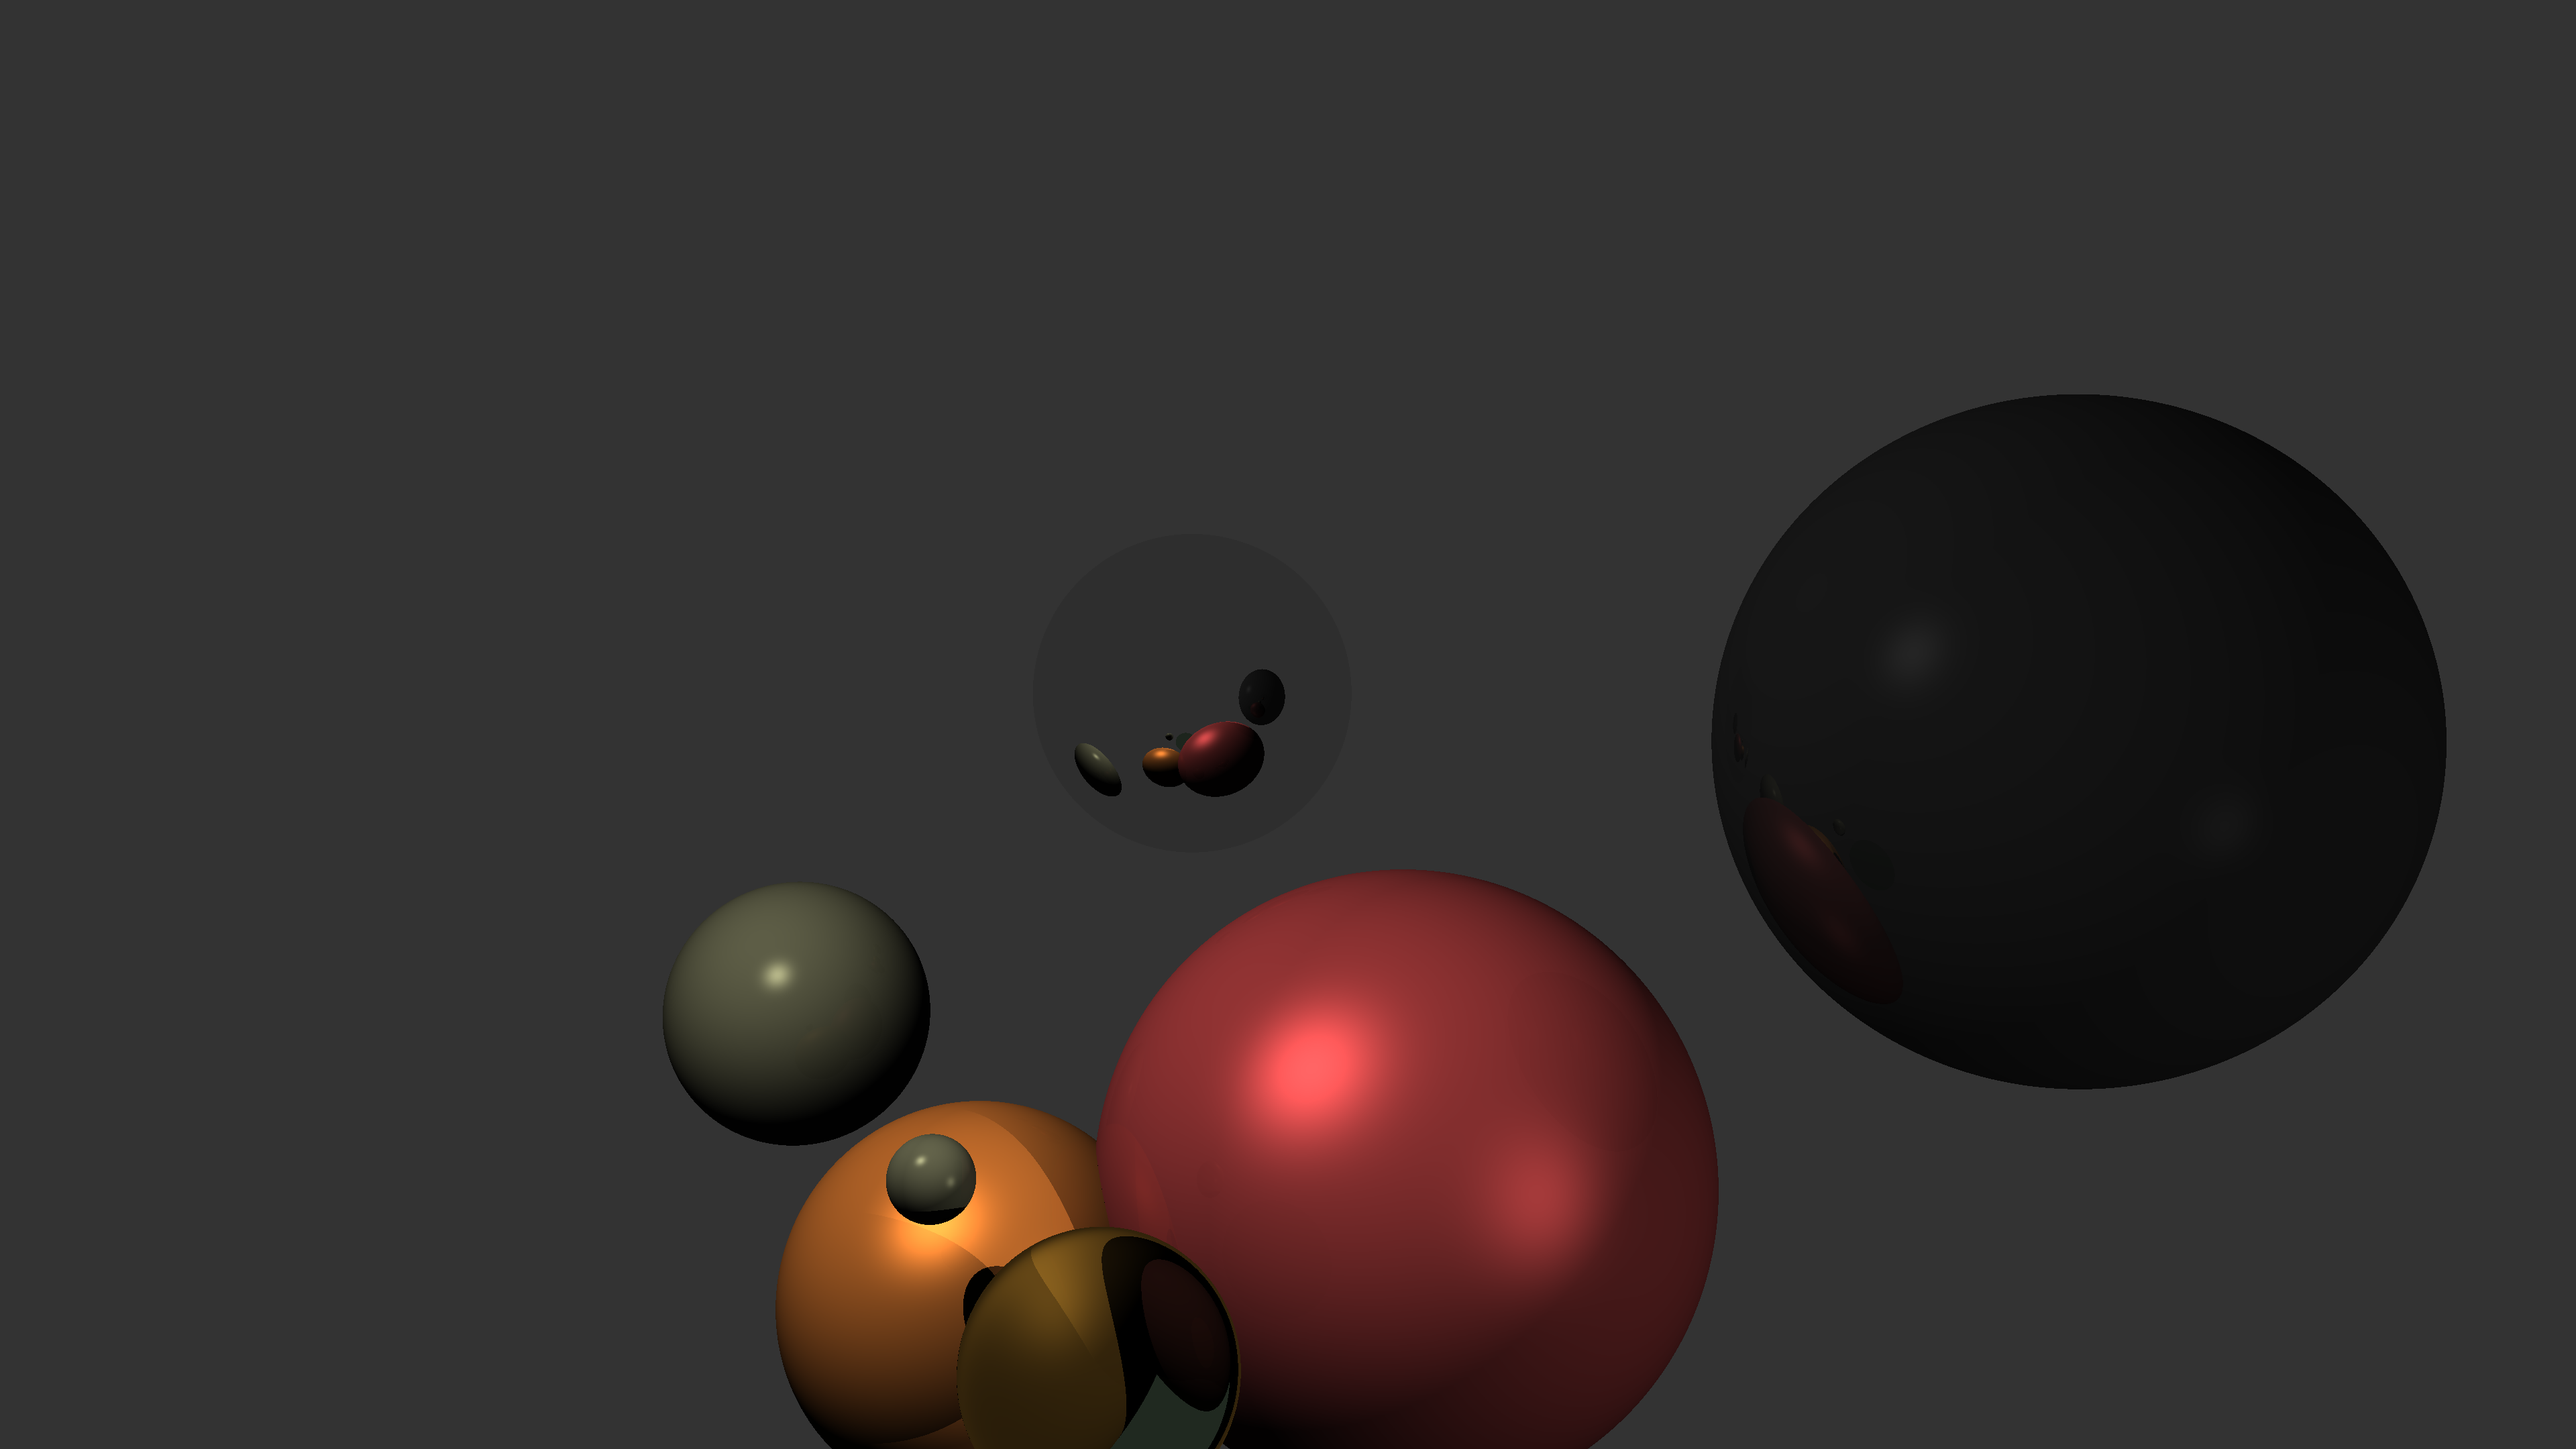
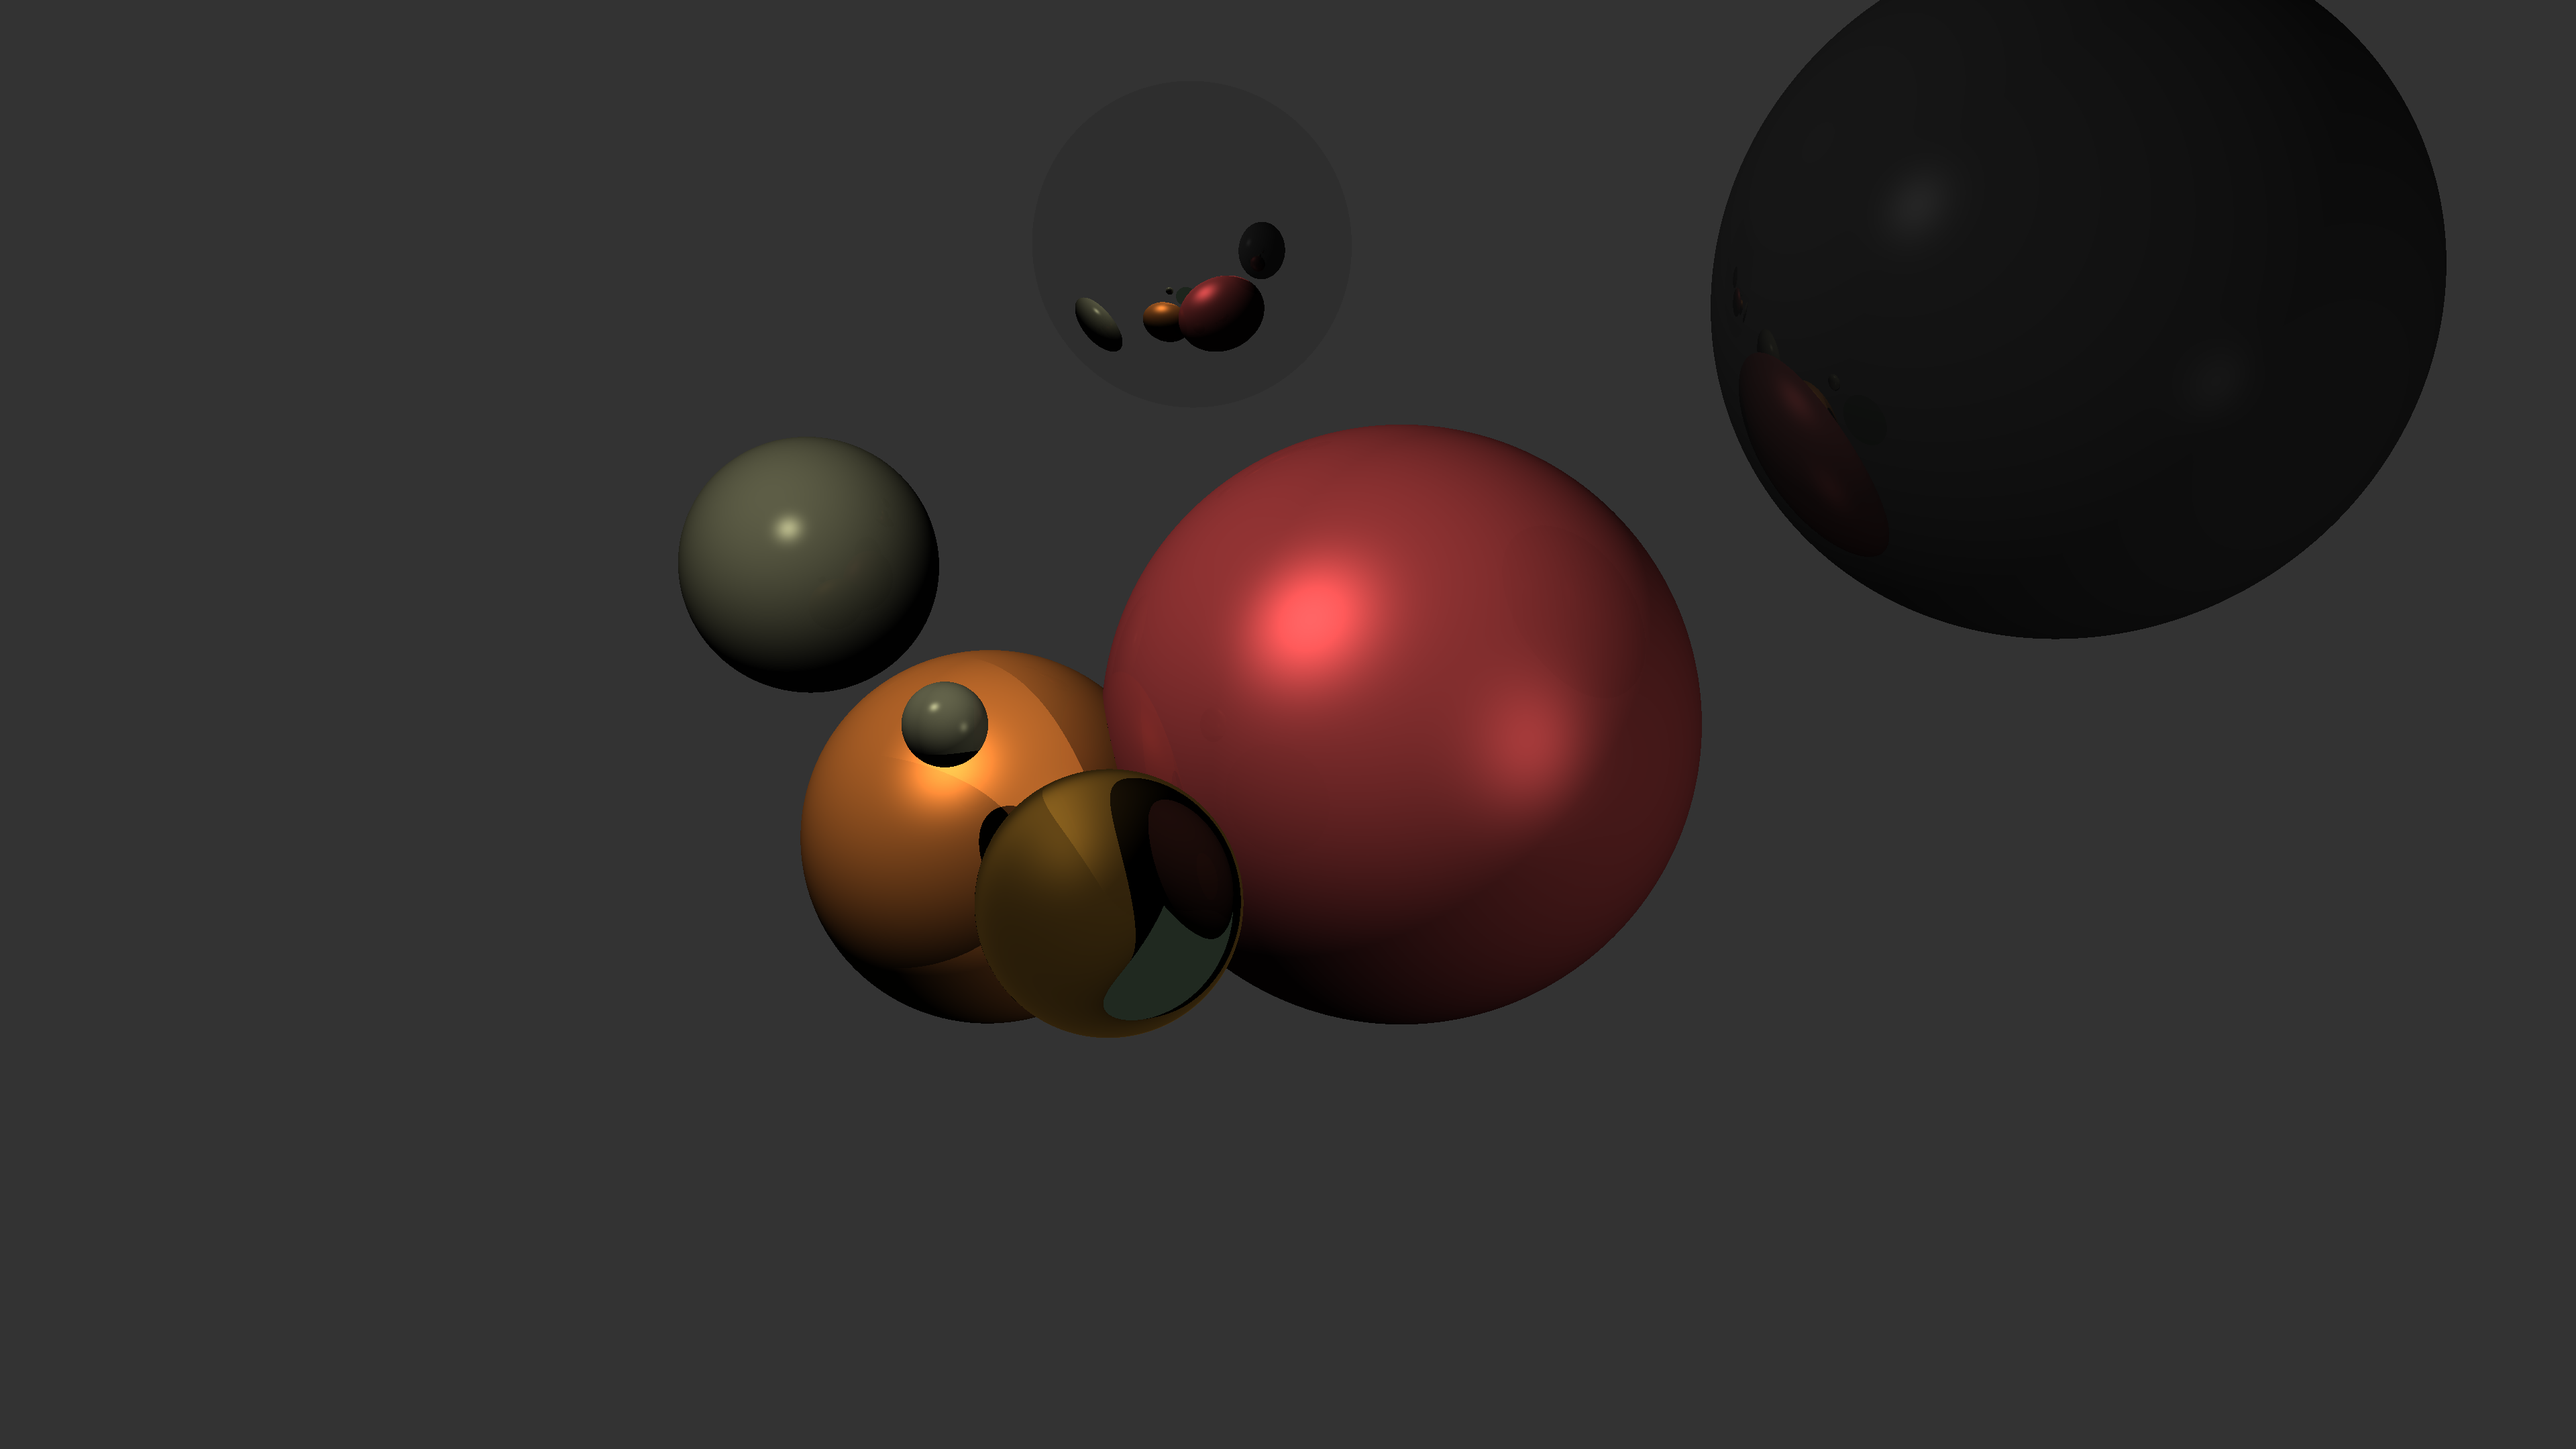
restructured

diff --git a/scene.go b/scene.go
@@ -9,35 +9,10 @@ type scene struct {
 	objects []object
 	lights []light
 	fov float64
-	cameraPos vector
-	cameraDir vector
-	cameraToWorld m44
+	camera ray
 }
+
 func (s *scene) calculateCameraToWorld() {
-	tmp := vector{0,1,0}
-	forward := s.cameraDir.Multiply(-1).Normalize()
-	right := tmp.CrossProduct(forward)
-	up := forward.CrossProduct(right)
-
-	s.cameraToWorld[0][0] = right.x
-	s.cameraToWorld[0][1] = right.y
-	s.cameraToWorld[0][2] = right.z
-	s.cameraToWorld[0][3] = 0
-
-	s.cameraToWorld[1][0] = up.x
-	s.cameraToWorld[1][1] = up.y
-	s.cameraToWorld[1][2] = up.z
-	s.cameraToWorld[1][3] = 0
-
-	s.cameraToWorld[2][0] = forward.x
-	s.cameraToWorld[2][1] = forward.y
-	s.cameraToWorld[2][2] = forward.z
-	s.cameraToWorld[2][3] = 0
-
-	s.cameraToWorld[3][0] = s.cameraPos.x
-	s.cameraToWorld[3][1] = s.cameraPos.y
-	s.cameraToWorld[3][2] = s.cameraPos.z
-	s.cameraToWorld[3][3] = 1
 }
 
 // intersec returns object, point of intersection and its normale if ray intersects something
@@ -131,8 +106,8 @@ func (s *scene) render(img *image.NRGBA64) {
 			dx := (2*(x+0.5)/w - 1.0) * ft * w/h
 			dy := -(2*(y+0.5)/h - 1.0) * ft
 			camDir := vector{dx, dy, -1}.Normalize()
-			worldDir := camDir.TransformDir(s.cameraToWorld).Normalize()
-			img.Set(int(x), int(y), s.castRay(s.cameraPos, worldDir, _ttl).toNRGBA64())
+			worldDir := camDir.TransformDir(s.camera.transformMatrix).Normalize()
+			img.Set(int(x), int(y), s.castRay(s.camera.origin, worldDir, _ttl).toNRGBA64())
 		}
 	}
 }

diff --git a/geometry.go b/geometry.go
@@ -10,6 +10,11 @@ type vector struct {
 	x, y, z float64
 }
 
+type ray struct {
+	origin, dir vector
+	transformMatrix m44
+}
+
 type m44 [4][4]float64
 
 type matrix [][]float64
@@ -160,3 +165,32 @@ func (m m44) Dump() {
 	}
 }
 
+// calculateTransformMatrix calculates transformation matrix
+// to convert from ray basis to world basis
+// in ray basis z-axis goes in -r.dir
+func (r *ray) calculateTransformMatrix() {
+	tmp := vector{0,1,0}
+	forward := r.dir.Multiply(-1).Normalize()
+	right := tmp.CrossProduct(forward)
+	up := forward.CrossProduct(right)
+
+	r.transformMatrix[0][0] = right.x
+	r.transformMatrix[0][1] = right.y
+	r.transformMatrix[0][2] = right.z
+	r.transformMatrix[0][3] = 0
+
+	r.transformMatrix[1][0] = up.x
+	r.transformMatrix[1][1] = up.y
+	r.transformMatrix[1][2] = up.z
+	r.transformMatrix[1][3] = 0
+
+	r.transformMatrix[2][0] = forward.x
+	r.transformMatrix[2][1] = forward.y
+	r.transformMatrix[2][2] = forward.z
+	r.transformMatrix[2][3] = 0
+
+	r.transformMatrix[3][0] = r.origin.x
+	r.transformMatrix[3][1] = r.origin.y
+	r.transformMatrix[3][2] = r.origin.z
+	r.transformMatrix[3][3] = 1
+}

diff --git a/main.go b/main.go
@@ -81,10 +81,9 @@ func renderOrbit(s scene, img *image.NRGBA64) {
 		i++
 		log.Printf("rendering frame %d", i)
 
-		s.cameraPos = orbitC.Add(r)
-		s.cameraDir = orbitC.Sub(s.cameraPos).Normalize()
-		s.calculateCameraToWorld()
-		log.Printf("camera is at %v", s.cameraPos)
+		s.camera.origin = orbitC.Add(r)
+		s.camera.dir = orbitC.Sub(s.camera.origin).Normalize()
+		s.camera.calculateTransformMatrix()
 		startRendering(s, img)
 
 		f, err := os.Create(fmt.Sprintf("out-%06d.bmp", i))
@@ -121,13 +120,15 @@ func main() {
 		{vector{-10, 30, 10}, 1.5},
 		{vector{40, 0, 10}, 0.7},
 	},
-	cameraPos: vector{10, 5, 40},
-	cameraDir: vector{0, 0, -1},
+	camera: ray{
+		origin: vector{10, 5, 40},
+		dir: vector{0, 0, -1},
+	},
 	fov: math.Pi / 5.0,
 }
-	scene.calculateCameraToWorld()
+	scene.camera.calculateTransformMatrix()
 	img := image.NewNRGBA64(image.Rect(0, 0, RESX, RESY))
-	renderOrbit(scene, img)
-	//renderStatic(scene, img)
+	//renderOrbit(scene, img)
+	renderStatic(scene, img)
 
 }
